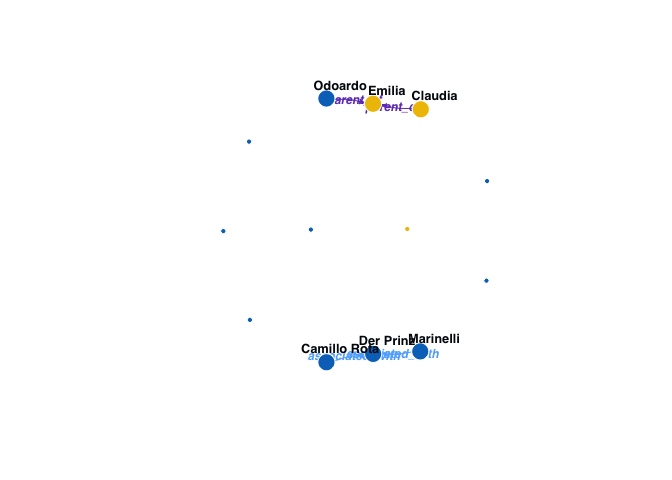
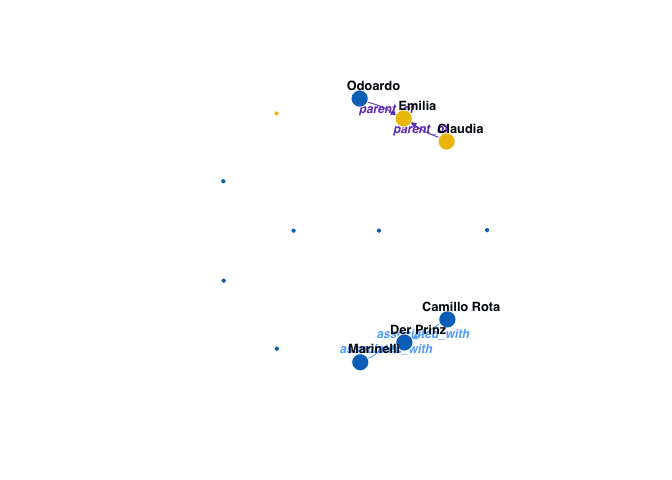
NEWS for the remaining fixes; re-knit README

Changed region(s): [[0.4375, 0.625, 0.75, 0.7812], [0.4688, 0.1562, 0.7188, 0.3125]]

diff --git a/README.md b/README.md
@@ -82,7 +82,7 @@ corpora <- get_dracor_meta()
 summary(corpora)
 #> DraCor hosts 24 corpora comprising 4918 plays.
 #> 
-#> The last updated corpus was German Drama Corpus (2026-10-07 03:32:39.834).
+#> The last updated corpus was German Drama Corpus (2026-10-07 01:32:39.834).
 plot(corpora)
 ```
 
@@ -93,11 +93,11 @@ plot(corpora)
 ``` r
 ger <- get_dracor(corpus = "ger")
 summary(ger)
-#> 783 plays in German Drama Corpus 
-#> Corpus id: ger, repository: https://github.com/dracor-org/gerdracor  
+#> 783 plays in German Drama Corpus
+#> Corpus id: ger, repository: https://github.com/dracor-org/gerdracor
 #> Description: Edited by Frank Fischer and Peer Trilcke. Features more than 750 German-language plays from the 1500s to the 1940s. For a corpus description and full credits please see the [README on GitHub](https://github.com/dracor-org/gerdracor).
-#> Written years (range): 1549–1947 
-#> Premiere years (range): 1515–2023    
+#> Written years (range): 1549–1947
+#> Premiere years (range): 1515–2023
 #> Years of the first printing (range): 1510–2010
 ```
 
@@ -106,11 +106,11 @@ You can get all corpora at once:
 ``` r
 all <- get_dracor()
 summary(all)
-#> 4930 plays in 24 corpora:    
-#> Corpora id:  
+#> 4930 plays in 24 corpora:
+#> Corpora id:
 #> fre (1940 plays), ger (783 plays), eng (753 plays), dutch (228 plays), rus (212 plays), cal (205 plays), ita (157 plays), ro (93 plays), hun (74 plays), swe (68 plays), pol (50 plays), u (48 plays), greek (46 plays), am (40 plays), gersh (38 plays), ibs (37 plays), shake (37 plays), rom (36 plays), als (30 plays), span (25 plays), ar (16 plays), yi (8 plays), bash (3 plays), tat (3 plays)
-#> Written years (range): 43–1970   
-#> Premiere years (range): -497–2023    
+#> Written years (range): 43–1970
+#> Premiere years (range): -497–2023
 #> Years of the first printing (range): 1170–2017
 ```
 
@@ -372,7 +372,7 @@ set_dracor_api_url("https://staging.dracor.org/api/v1")
 #> base: https://staging.dracor.org/api/v1
 #> status: stable
 get_dracor("u")
-#> # A tibble: 48 × 63
+#> # A tibble: 48 × 62
 #>    corpus id      playName      yearNormalized title titleEn subtitle subtitleEn
 #>  * <chr>  <chr>   <chr>                  <int> <chr> <chr>   <chr>    <lgl>     
 #>  1 u      u000001 ukrainka-adv…           1913 Адво… Attorn… Драмати… NA        
@@ -386,7 +386,7 @@ get_dracor("u")
 #>  9 u      u000009 ukrainka-try…           1913 Трип… Tripty… (Легенд… NA        
 #> 10 u      u000010 ukrainka-try…           1906 Три … Three … Діалог   NA        
 #> # ℹ 38 more rows
-#> # ℹ 55 more variables: firstAuthorName <chr>, authors <list>,
+#> # ℹ 54 more variables: firstAuthorName <chr>, authors <list>,
 #> #   source.name <chr>, source.url <chr>, yearWrittenStart <int>,
 #> #   yearWrittenFinish <int>, yearPrintedStart <lgl>, yearPrintedFinish <int>,
 #> #   yearPremieredStart <int>, yearPremieredFinish <int>, wikidataId <chr>,

diff --git a/NEWS.md b/NEWS.md
@@ -32,6 +32,17 @@ as connection problems
 * fixed `citation("rdracor")`: full list of authors of the 'DraCor' paper and
 DOI; added a citation for the package
 * fixed typos in documentation; documented the format of `gender_colors`
+* fixed `plot()` for `cooccur_igraph` objects failing or warning when a metric
+is 0 for every character (e.g. betweenness in a two-character play) or the play
+has no co-occurrences; unknown relation types are drawn in grey
+* several authors of a play are separated with "; " in the attributes of
+network objects
+* `get_dracor()` downloads each corpus once even if its name is repeated and
+no longer returns the duplicated column `yearNormalizedMeta`
+* the `updated` column of `get_dracor_meta()` takes the UTC offset of 'DraCor'
+API timestamps into account
+* invalid `play` or `corpus` arguments give a clear error message
+* requests to 'DraCor' API identify the package with a User-Agent header
 
 # rdracor 1.0.6
 
